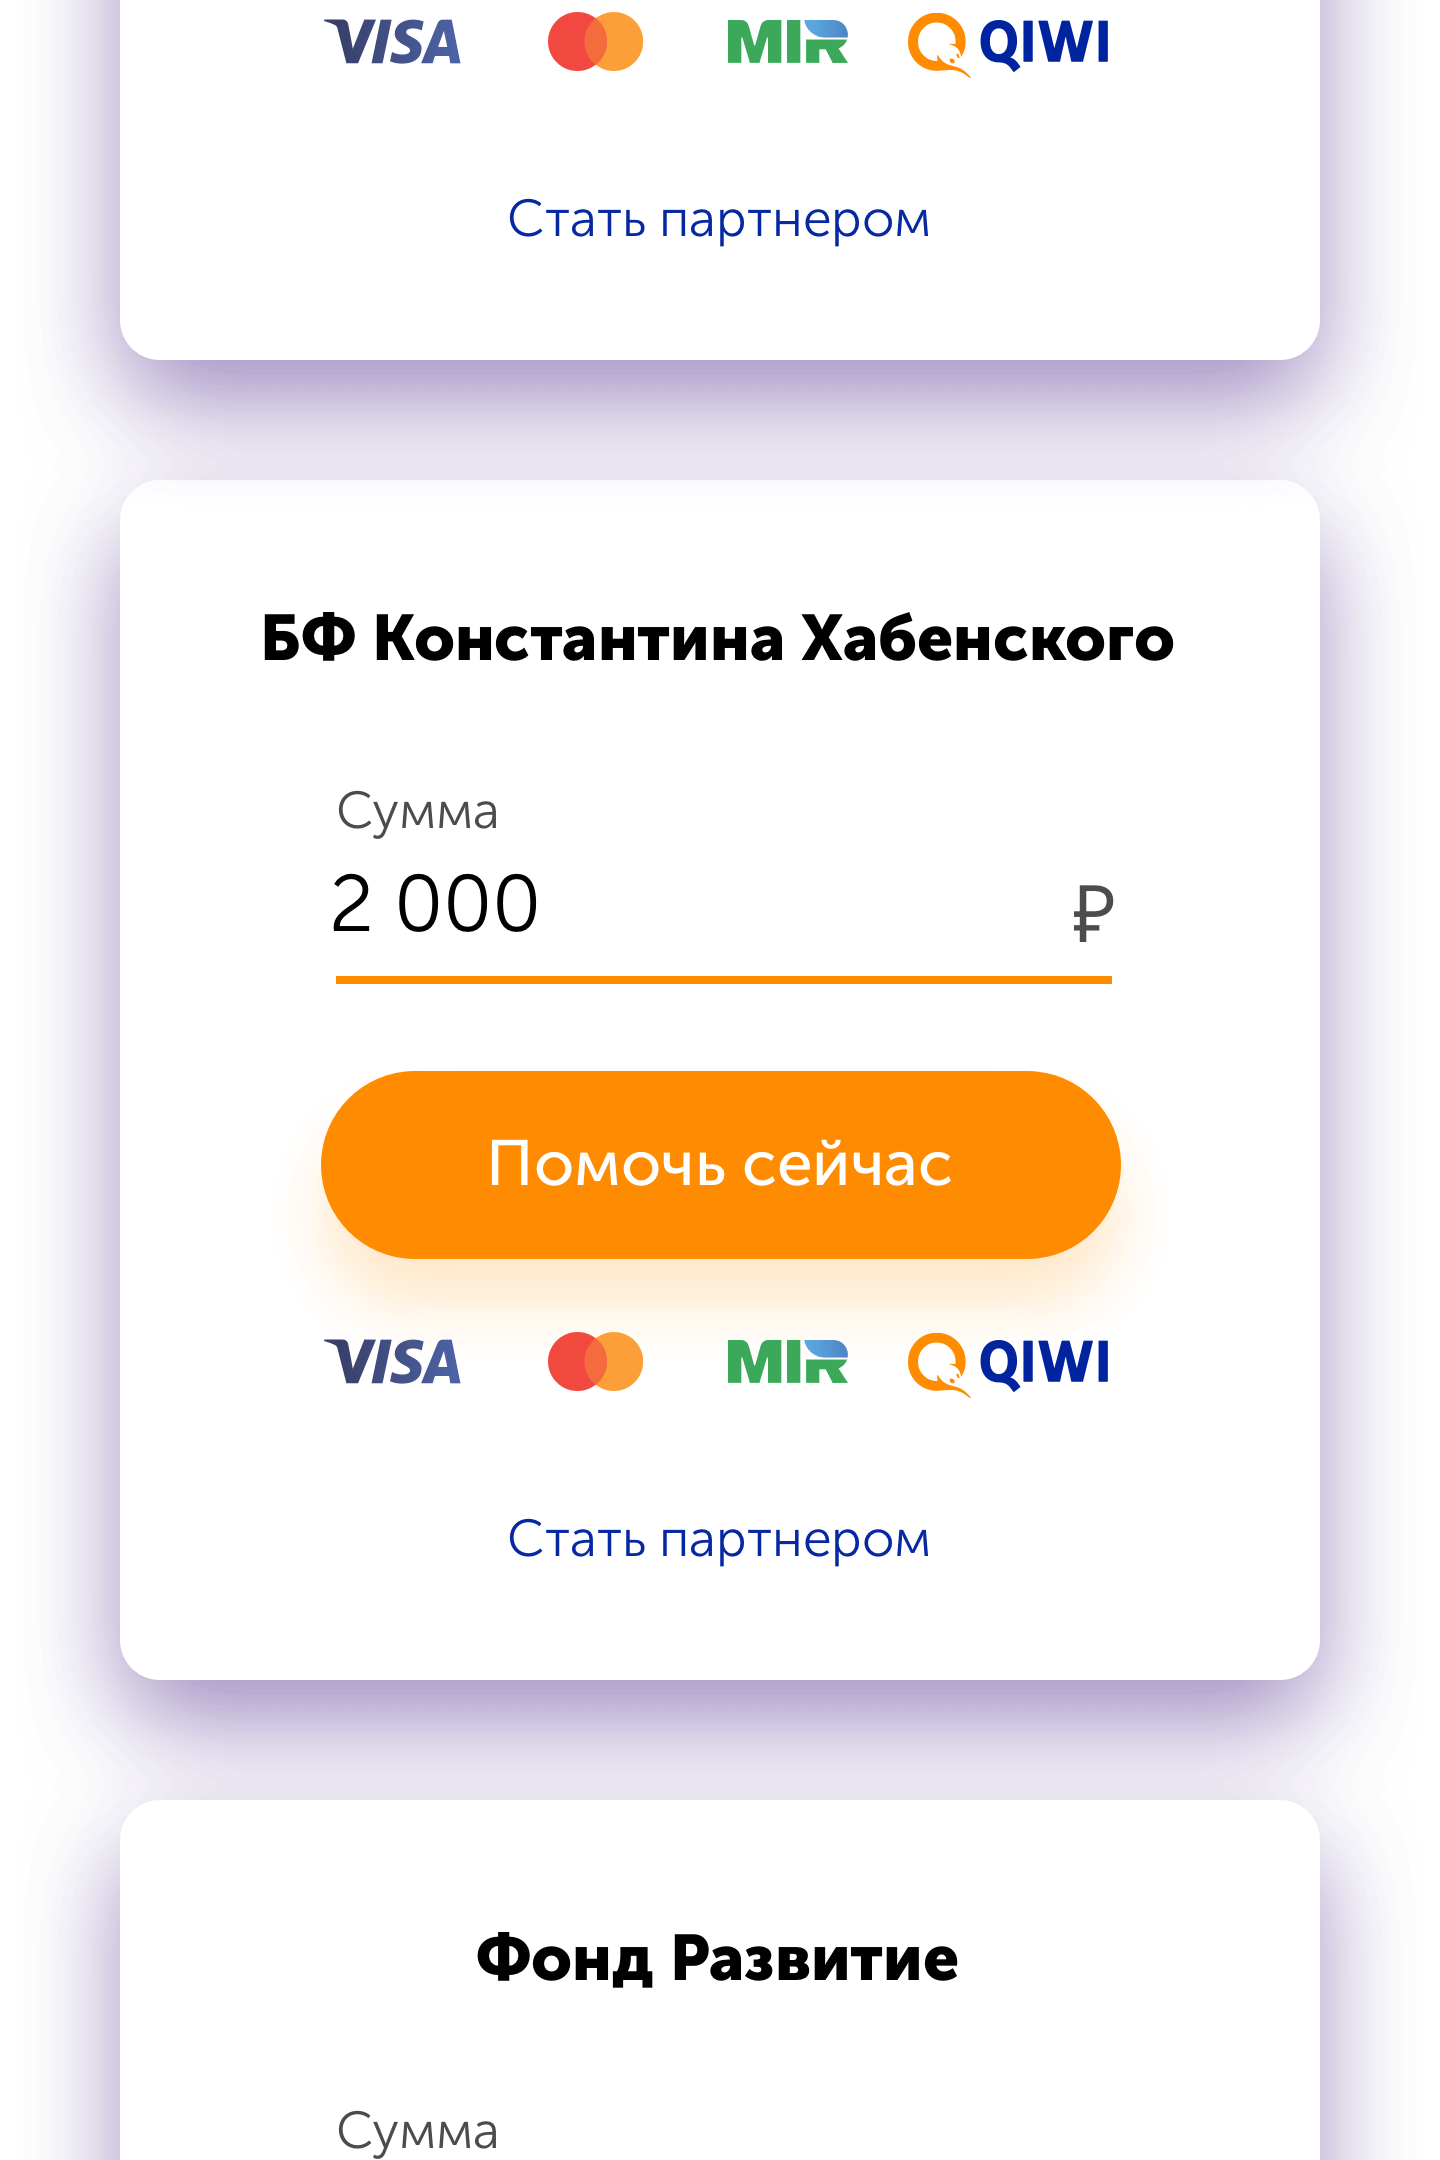
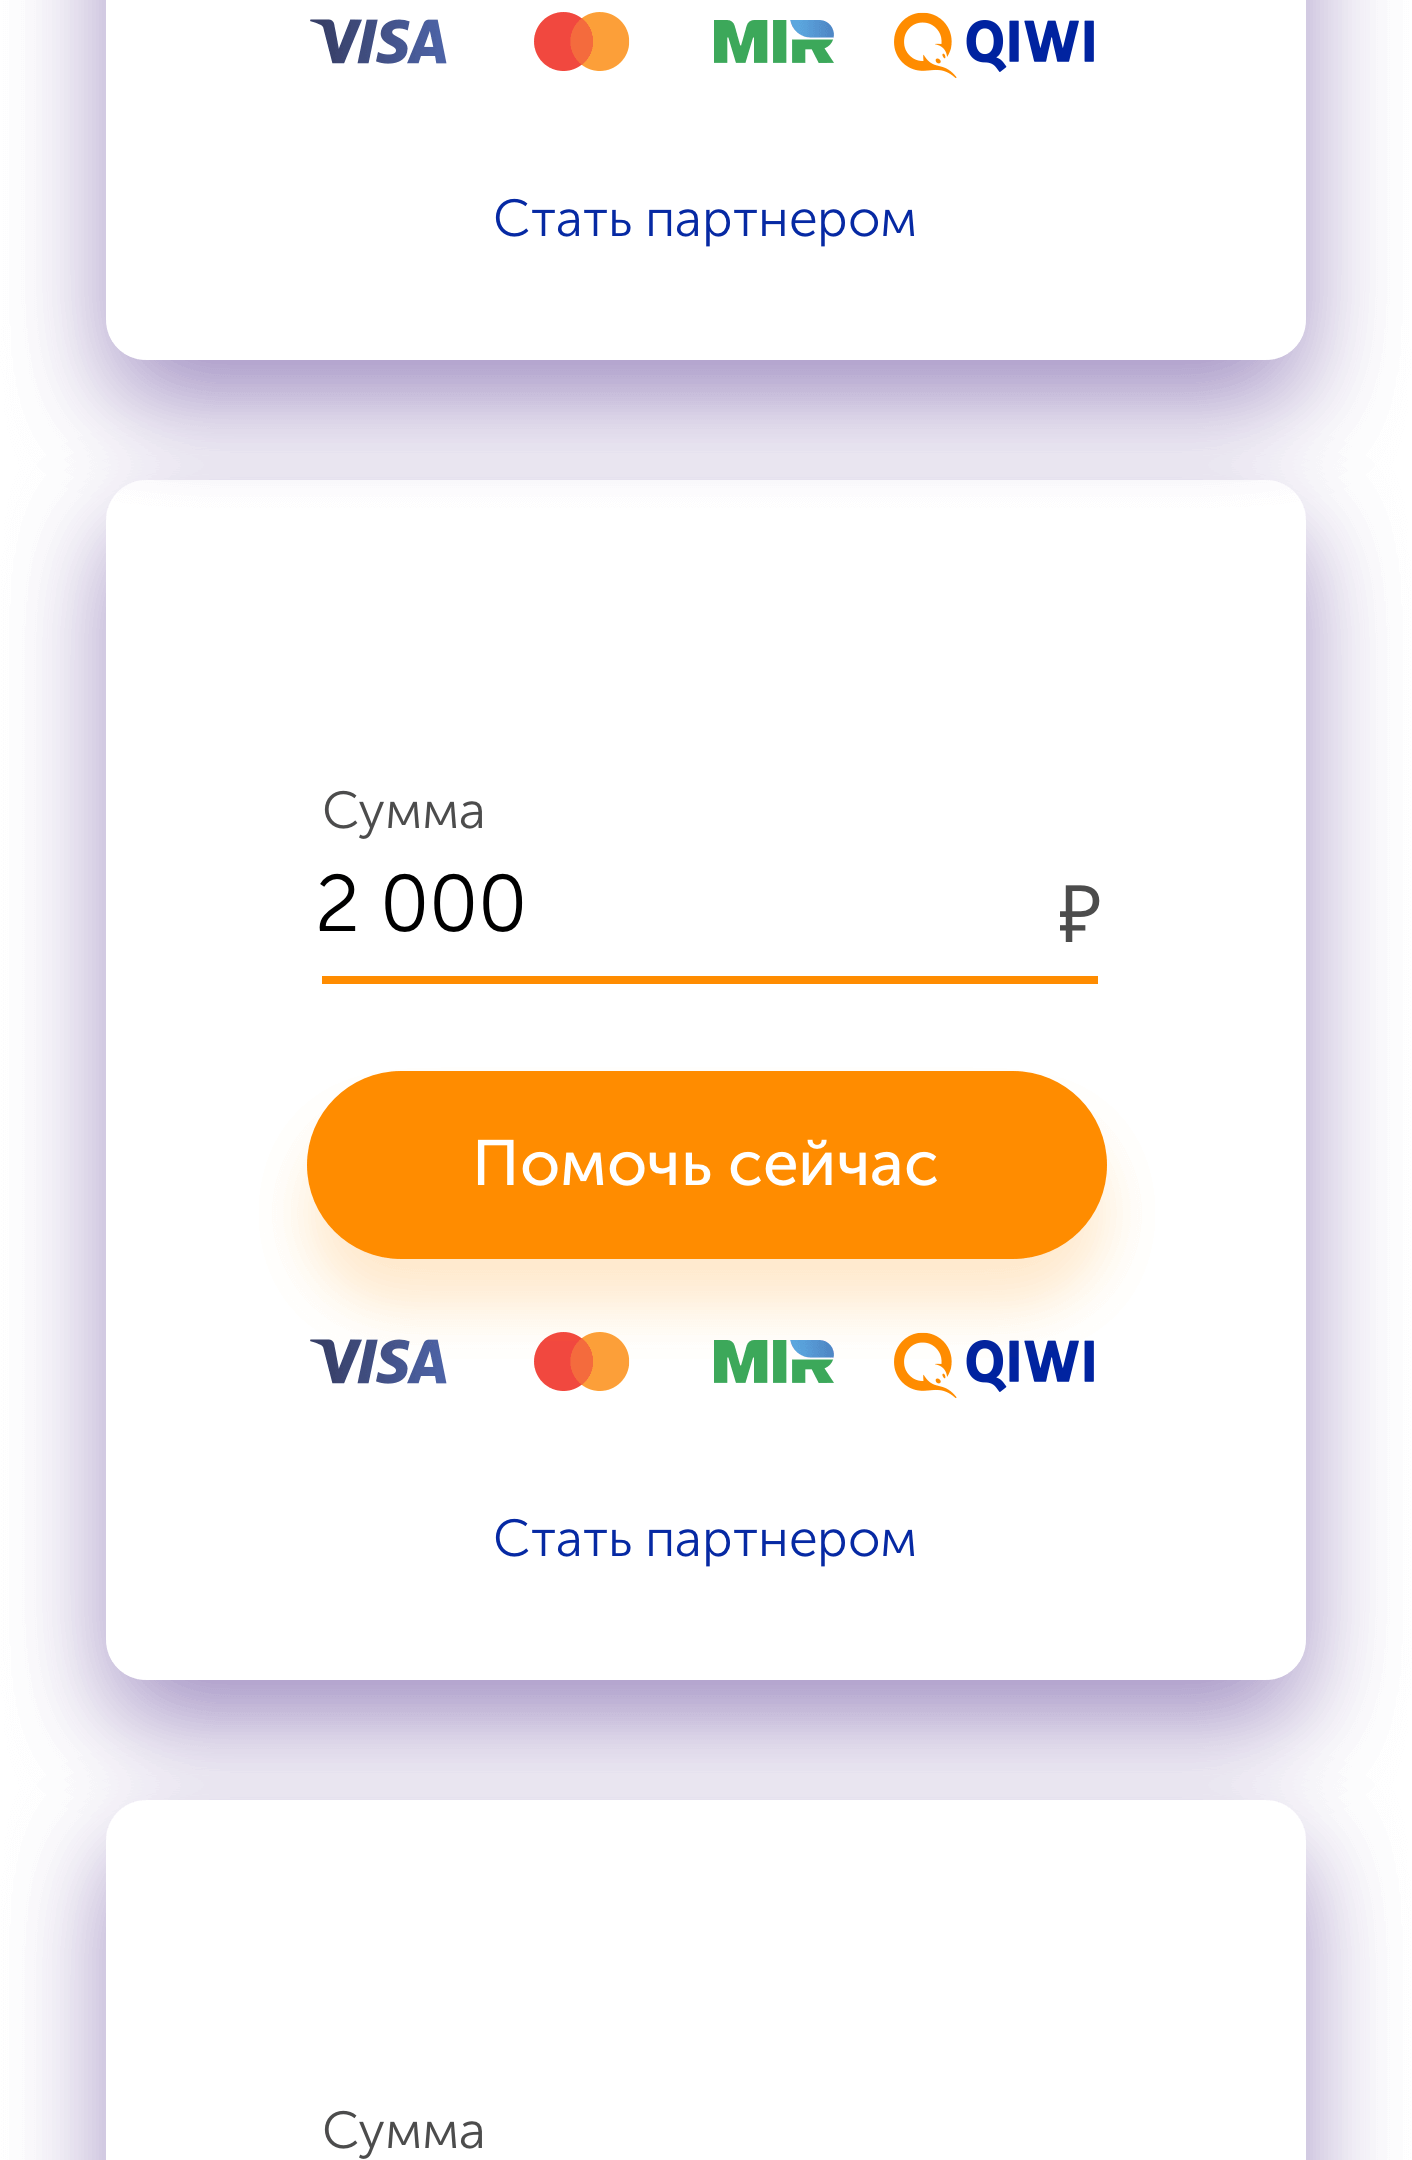
Add merchant's name request

diff --git a/src/components/Header/Header.js b/src/components/Header/Header.js
@@ -6,7 +6,42 @@ import logo from './assets/qiwi-logo.svg'
 import widgetPic from './assets/widget-pic.png'
 
 export default class Header extends Component {
-    render({idWidgetsBlock}){
+
+    componentDidMount(){
+
+        if(this.props.public_key) {
+            this.getMerchant(this.props.public_key).then((data) => {
+
+                if(data) {
+                    this.setState({
+                        merchantName: data.provider_name
+                    });
+                }
+            });
+        }
+    }
+
+    getMerchant = (public_key) => {
+
+        return fetch(`https://edge.qiwi.com/checkout/merchant/info?public_key=${public_key}`, {
+                mode: 'cors'
+            })
+            .then(response => {
+
+                if(response.status >= 400 && response.status < 500){
+                    throw new Error('NotFoundError')
+                }
+                if(response.status >= 500) {
+                    throw new Error('ServerError')
+                }
+                return response;
+
+            })
+            .then(response => response.json());
+    }
+
+
+    render({idWidgetsBlock}, {merchantName}){
         return (<header class="header">
             <a href="/" class="header__logo"><img src={logo} alt="logo" width="140" height="61" /></a>
             <section class="header__call-to-action">
@@ -14,7 +49,11 @@ export default class Header extends Component {
                 <p class="header__description">Размести платежную форму у себя на сайте и твори добро во благо</p>
                 <a href={`#${idWidgetsBlock}`} class="header__action">Разместить</a>
             </section>
-            <img src={widgetPic} alt="widgets" class="header__illustration" width="480" height="720"/>
+            <div class="header__illustration">
+                <img src={widgetPic} alt="widgets" width="480" height="720"/>
+                <div class="header__widget-title">{merchantName || 'Ваш фонд'}</div>
+                <div class="header__widget-title header__widget-title--second">{merchantName || 'Ваш фонд'}</div>
+            </div>
         </header>);
     }
 }

diff --git a/src/components/App.js b/src/components/App.js
@@ -1,5 +1,6 @@
 import { h, Component } from 'preact';
 
+import 'url-search-params-polyfill';
 
 import Header from './Header';
 import About from './About';
@@ -17,13 +18,17 @@ export default class App extends Component {
 
     render(){
 
+        const public_key = new URLSearchParams (window.location.search).get('public_key') || '';
+
+        this.appSettings['public_key'] = public_key;
+
         const {idWidgetsBlock} = this.appSettings;
 
         return (<div>
-            <Header idWidgetsBlock={idWidgetsBlock}/>
+            <Header idWidgetsBlock={idWidgetsBlock} public_key={public_key}/>
             <main>
                 <About/>
-                <Widgets {...this.appSettings}/>
+
                 <div class="thanking">Спасибо! Вместе мы сделаем мир лучше :)</div>
             </main>
             <footer>© 2016, КИВИ Банк (АО), лицензия ЦБ РФ № 2241</footer>

diff --git a/src/components/Widgets/Widgets.js b/src/components/Widgets/Widgets.js
@@ -19,12 +19,12 @@ export default class Widgets extends Component {
         this.setState({topForPos:this.widgetLibraryBlock.getBoundingClientRect().top});
     };
 
-    render({idWidgetsBlock, widgetsLibrary}, {topForPos}){
+    render({idWidgetsBlock, widgetsLibrary, widgetUrl, public_key}, {topForPos}){
         return (<section class="widgets" id={idWidgetsBlock}>
             <h1 class="widgets__title">Выберите нужный размер и скопируйте код для внедрения на собственный сайт</h1>
             <div class="widgets__library" ref={ c => this.widgetLibraryBlock = c }>
                 <LibraryNav widgetsLibrary={widgetsLibrary} topForPos={topForPos}/>
-                <Library widgetsLibrary={widgetsLibrary}/>
+                <Library widgetsLibrary={{...widgetsLibrary,widgetUrl,public_key}}/>
             </div>
 
         </section>);

diff --git a/src/components/Library/Library.js b/src/components/Library/Library.js
@@ -8,7 +8,7 @@ export default class Library extends Component {
 
     render({widgetsLibrary}){
 
-        const { library, types } = widgetsLibrary;
+        const { library, types, widgetUrl, public_key } = widgetsLibrary;
 
         return (<div class="library">
 
@@ -17,7 +17,7 @@ export default class Library extends Component {
                     <h2 class="library__title">{group.title}</h2>
                     <p class="library__description">{group.desc}</p>
                     {group.types.map((type) => {
-                        return (<WidgetInfo id={type} widget={types[type]}/>);
+                        return (<WidgetInfo id={type} widget={types[type]} widgetUrl={widgetUrl} public_key={public_key}/>);
                     })}
 
                 </article>);

diff --git a/src/components/WidgetInfo/WidgetInfo.js b/src/components/WidgetInfo/WidgetInfo.js
@@ -15,17 +15,13 @@ export default class WidgetInfo extends Component {
         document.execCommand("Copy");
     }
 
-    render({widget, id}){
+    render({widget, id, widgetUrl, public_key}){
 
         const { title, height, width, transparent, params, link} = widget;
 
         const iframeType = transparent? 'widget-info__iframe--bordered': '';
 
-        const widgetUrl = 'https://widget.qiwi.com';
-
-        const public_key = new URLSearchParams (window.location.search).get('public_key');
-
-        params['public_key'] = public_key || '';
+        params['public_key'] = public_key;
 
         const querystring = new URLSearchParams(params);
 

diff --git a/src/components/Header/Header.scss b/src/components/Header/Header.scss
@@ -84,6 +84,8 @@
 
 
 .header__illustration {
+    width: 480px;
+    height: 720px;
     position: absolute;
     top: 0;
     right: 74px;
@@ -96,3 +98,24 @@
         right: -25%;
     }
 }
+
+.header__widget-title {
+    text-align: center;
+    color: rgb(0, 0, 0);
+    margin: 0 auto;
+    font-size: 22px;
+    font-family: 'MuseoSansCyrl900';
+    font-weight: 900;
+    overflow: hidden;
+    text-overflow: ellipsis;
+    position: absolute;
+    top: 200px;
+    left: 40px;
+    right: 40px;
+
+    &--second {
+        top: 640px;
+    }
+
+}
+

diff --git a/src/components/appSettings.js b/src/components/appSettings.js
@@ -1,5 +1,7 @@
 export default {
     idWidgetsBlock: 'widgets',
+    widgetUrl: 'https://widget.qiwi.com',
+    public_key: '',
     widgetsLibrary: {
         navigation: [{
             id: 'widgets',
